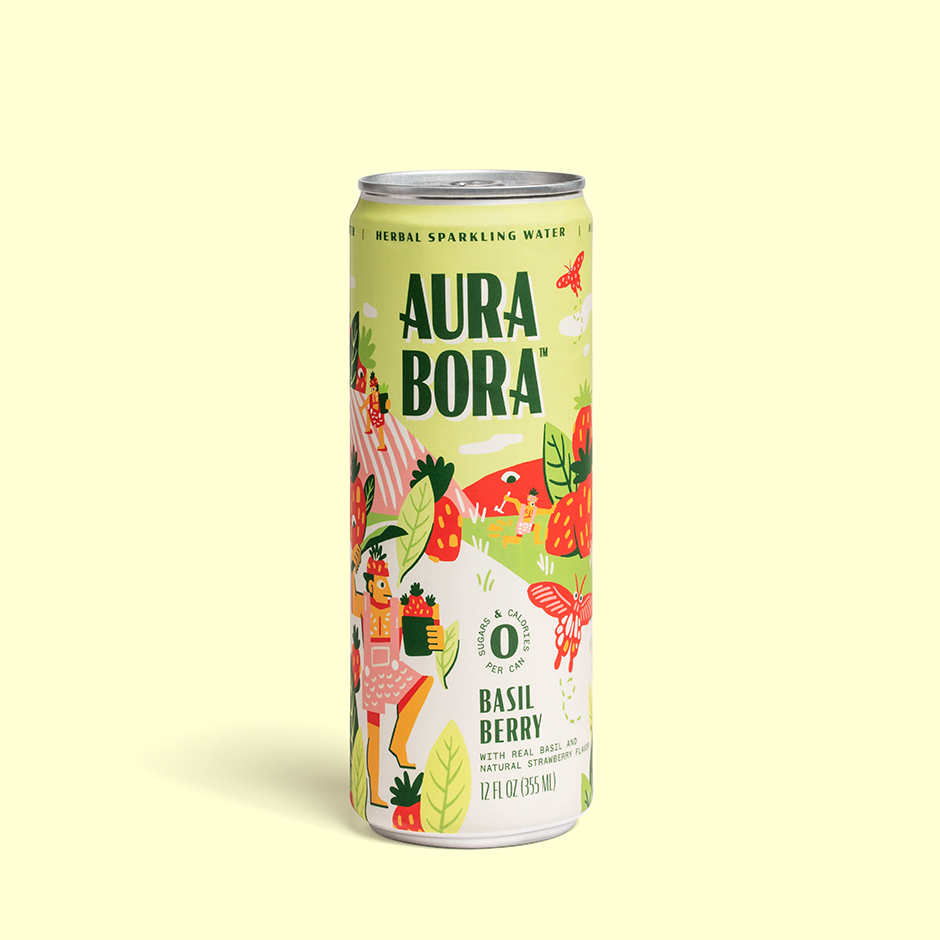
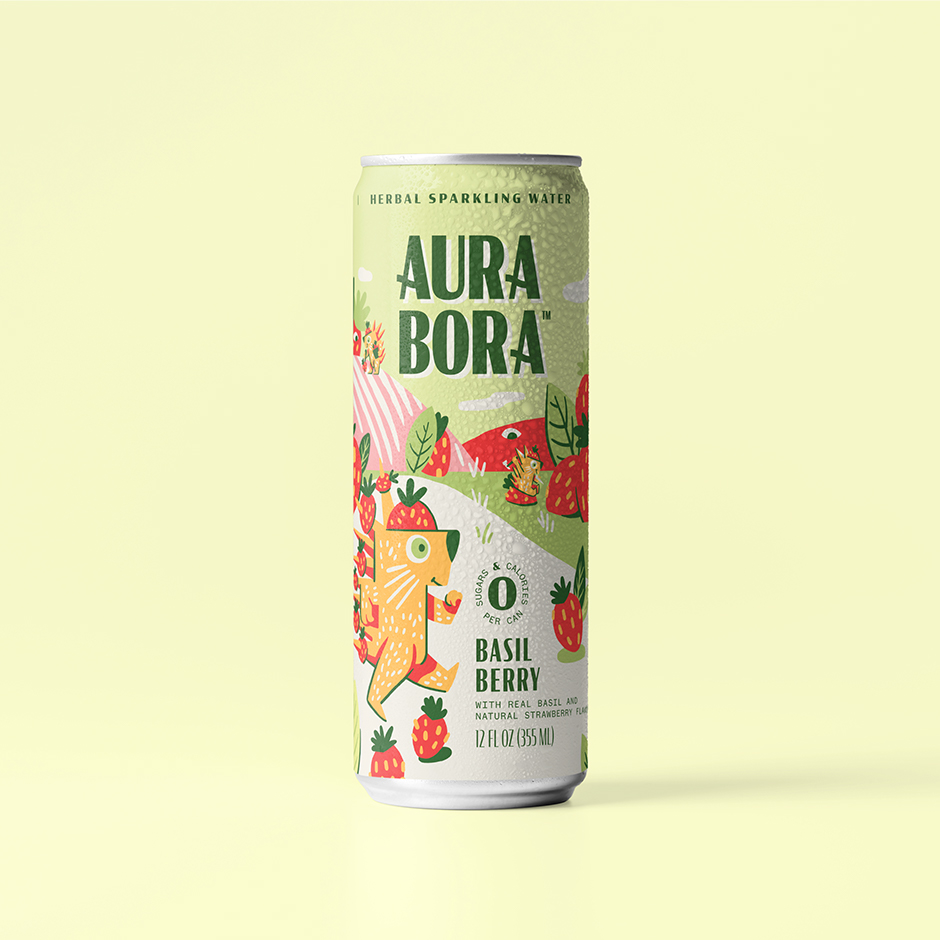
New Product images and update font and spacing on Cart & Productinfo (#40)
* Update font and spacing on ProductInfo & Cart

* Update product images

* Remove console.log

* Solve problem where menu/link clicks did not always work

* Change size on li-elements

* Update product bg-colors

* Moved onClick to anchor tag for eslint

Changed region(s): [[0.2468, 0.1543, 0.8947, 0.9255]]

diff --git a/src/components/layout/header.js b/src/components/layout/header.js
@@ -6,25 +6,26 @@ const Header = () => {
   const navMenu = useRef()
 
   useEffect(() => {
-    document.addEventListener('mousedown', handleClick, false)
+    document.addEventListener('mousedown', handleOutsideClick, false)
 
     return () => {
-      document.removeEventListener('mousedown', handleClick, false)
+      document.removeEventListener('mousedown', handleOutsideClick, false)
     }
   }, [])
 
-  const handleClick = e => {
-    const isShopLink = e.target.classList.contains('shop-link')
-
-    if (navMenu.current) {
-      if (!navMenu.current.contains(e.target)) {
-        document.getElementById('menu-btn').checked = false
-      }
+  const handleOutsideClick = e => {
+    if (navMenu.current && !navMenu.current.contains(e.target)) {
+      document.getElementById('menu-btn').checked = false
     }
-    if (isShopLink) {
-      setTimeout(() => {
-        document.getElementById('menu-btn').checked = false
-      }, 100)
+  }
+
+  const handleLinkClick = () => {
+    document.getElementById('menu-btn').checked = false
+  }
+
+  const handleKeyDown = e => {
+    if (e.keyCode === 37) {
+      document.getElementById('menu-btn').checked = false
     }
   }
 
@@ -46,14 +47,18 @@ const Header = () => {
                   to="/#shop"
                   title="Shop"
                   stripHash
+                  onClick={handleLinkClick}
+                  onKeyDown={handleKeyDown}
                 />
               </li>
               <li className="margin-top-20px margin-bottom-30px">
                 <AnchorLink
                   className="primary-link text-36px"
-                  to="/where-to-find"
+                  to="/where-to-find#menu-btn"
                   title="Where to find"
                   stripHash
+                  onClick={handleLinkClick}
+                  onKeyDown={handleKeyDown}
                 />
               </li>
               <li className="margin-top-20px margin-bottom-30px">
@@ -62,6 +67,8 @@ const Header = () => {
                   to="/#mood"
                   title="Mood"
                   stripHash
+                  onClick={handleLinkClick}
+                  onKeyDown={handleKeyDown}
                 />
               </li>
               <li className="margin-top-20px padding-bottom-60px padding-bottom-md-none">
@@ -69,6 +76,8 @@ const Header = () => {
                   className="primary-link text-36px shop-link"
                   to="/contact"
                   title="Let’s be rosebuds"
+                  onClick={handleLinkClick}
+                  onKeyDown={handleKeyDown}
                 />
               </li>
             </ul>

diff --git a/src/components/ProductInfo.js b/src/components/ProductInfo.js
@@ -25,24 +25,34 @@ const ProductInfo = ({
       {name &&
         name.split(' ').map((word, index) => <div key={index}>{word}</div>)}
     </h2>
-    <div className="text-22px line-height-32px padding-right-80px">
-      <p className="margin-none">
-        <strong>Ingredients</strong>
-      </p>
-      {description &&
-        description.split(',').map((item, index) => (
-          <p className="margin-none" key={index}>
-            {item}
-          </p>
-        ))}
-    </div>
     {name && name !== 'Variety pack' ? (
-      <div className="padding-top-30px text-22px line-height-32px">
-        <p className="margin-none">0 calories</p>
-        <p className="margin-none">0 sugar</p>
-        <p className="margin-none">0 sodium</p>
+      <div className="text-22px line-height-32px padding-right-80px">
+        <p className="margin-none">
+          <strong>Ingredients</strong>
+        </p>
+        {description &&
+          description.split(',').map((item, index) => (
+            <p className="margin-none" key={index}>
+              {item}
+            </p>
+          ))}
+
+        <div className="padding-top-30px text-22px line-height-32px">
+          <p className="margin-none">0 calories</p>
+          <p className="margin-none">0 sugar</p>
+          <p className="margin-none">0 sodium</p>
+        </div>
       </div>
-    ) : null}
+    ) : (
+      <div className="text-22px line-height-40px">
+        {description &&
+          description.split(',').map((item, index) => (
+            <p className="margin-none" key={index}>
+              {item}
+            </p>
+          ))}
+      </div>
+    )}
   </div>
 )
 

diff --git a/src/components/cart.js b/src/components/cart.js
@@ -35,7 +35,6 @@ const Cart = () => {
       setShowMenu(false)
     }
   }
-
   return (
     <div className="cart relative" ref={cartMenu}>
       <button
@@ -76,7 +75,7 @@ const Cart = () => {
             ${showMenu ? 'cart-quantity-transform' : ''}
             `}
         >
-          {cartItemsCount(items)}
+          {items && items.length ? cartItemsCount(items) : 0}
         </strong>
       </button>
       {showMenu && (
@@ -93,7 +92,9 @@ const Cart = () => {
               onKeyDown={() => setShowMenu(false)}
               className="close-icon d-block margin-bottom-40px padding-top-60px"
             />
-            <h2 className="text-28px margin-bottom-20px">Order Summary</h2>
+            <h2 className="text-28px line-height-1 margin-bottom-20px font-barlow">
+              {items && items.length ? 'Order Summary' : 'Nothing here!'}
+            </h2>
             {items &&
               items.map((product, index) => (
                 <div key={index} className="padding-top-40px text-20px">
@@ -161,7 +162,7 @@ const Cart = () => {
                 </button>
               </>
             ) : (
-              <p className="text-20px padding-top-25px">
+              <p className="text-18px line-height-28 padding-top-25px font-space-mono">
                 You have nothing in your{' '}
                 <span className="d-md-block">bouquet yet. Keep picking!</span>
               </p>

diff --git a/src/styles/variables/_variables_colors.scss b/src/styles/variables/_variables_colors.scss
@@ -28,9 +28,9 @@ $varietyPack-info: #f7d4d1;
 
 //product bg colors
 
-$basilBerry: #fdffd5;
-$peppermintWatermelon: #fdb793;
-$lavenderCucumber: #afacbd;
-$cactusRose: #ffe8ac;
-$lemongrassCoconut: #e5fbd8;
+$basilBerry: #f5f8c9;
+$peppermintWatermelon: #f8ae87;
+$lavenderCucumber: #a6a3b6;
+$cactusRose: #fae2a2;
+$lemongrassCoconut: #dbf1cb;
 $varietyPack: #fee0c8;

diff --git a/src/styles/global/header.scss b/src/styles/global/header.scss
@@ -38,6 +38,10 @@ header .navicon {
   left: -5px;
 }
 
+header li {
+  width: fit-content;
+}
+
 // Expanded styles
 .menu-btn:checked ~ header {
   background: $lavender;
